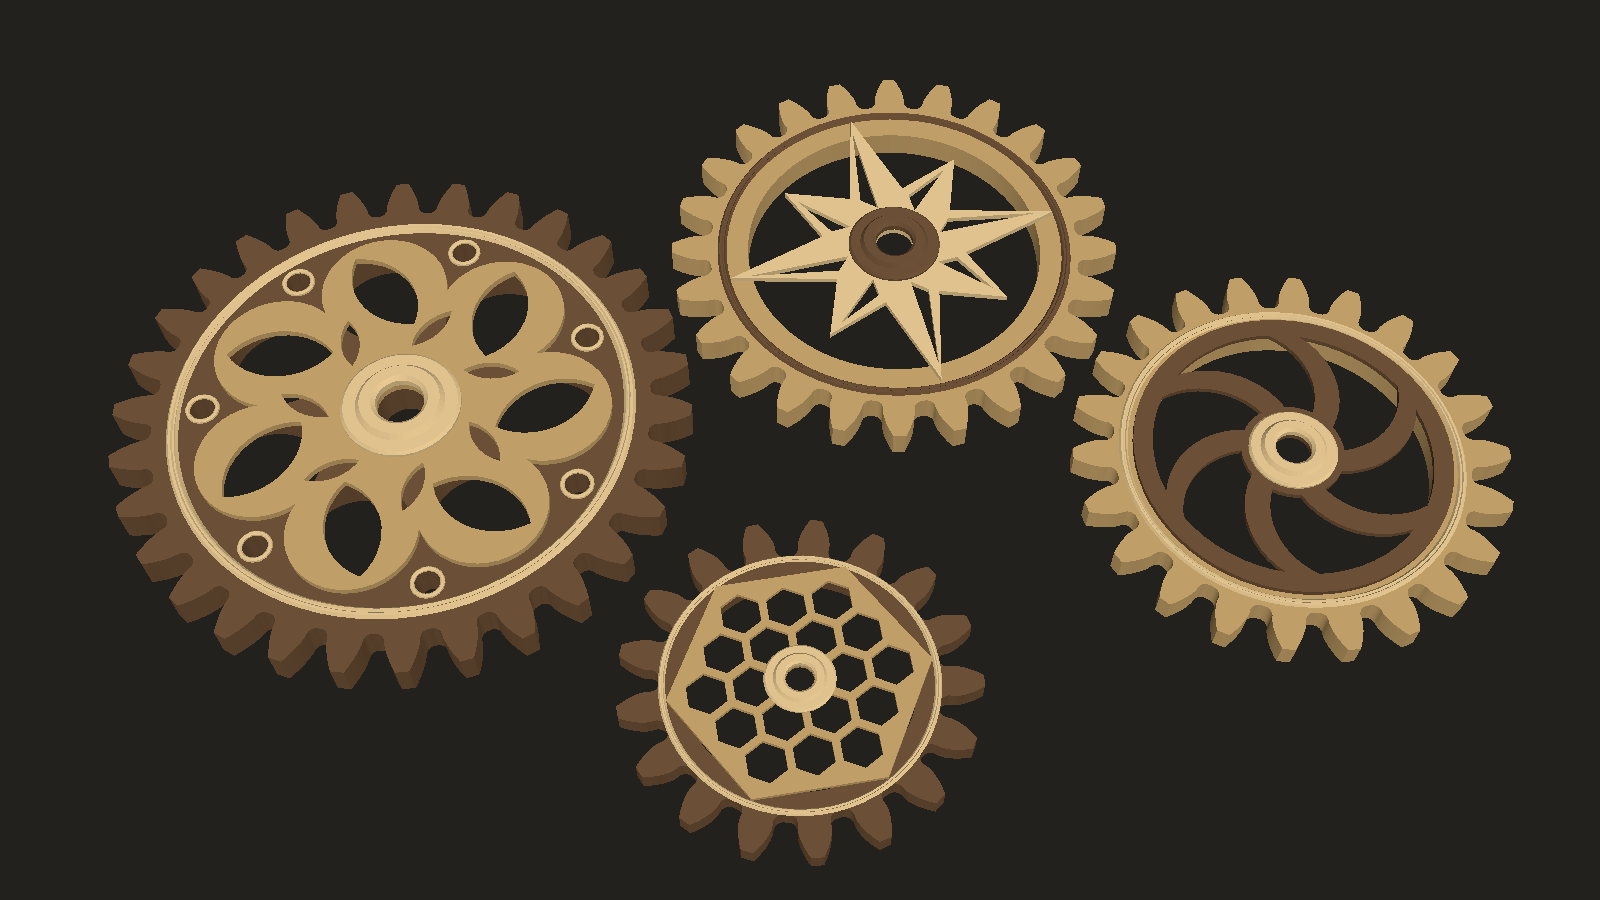
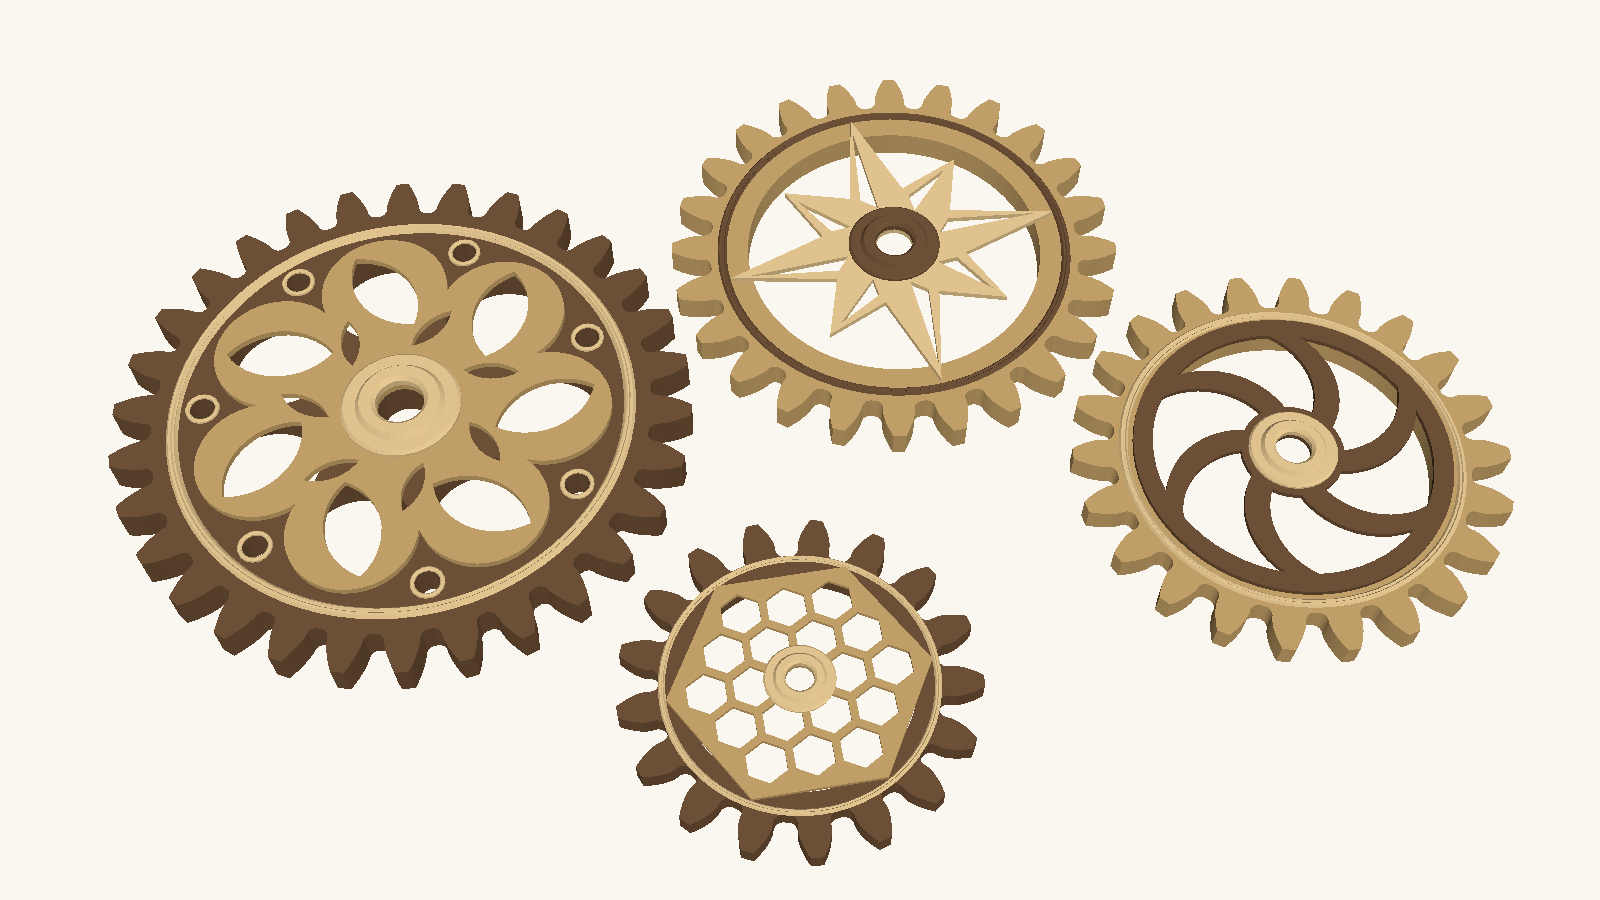
use ivory background for gallery hero

diff --git a/tools/render/ornamental_gears.go b/tools/render/ornamental_gears.go
@@ -44,7 +44,7 @@ func ornamentalGears(ctx context.Context) (solidlens.Scene, error) {
 	scene := solidlens.Scene{
 		Camera: solidlens.Camera{Position: r3.NewVec(7, -121, 186), Target: r3.NewVec(7, -9, 2),
 			Up: r3.NewVec(0, 0, 1), FOV: 26},
-		Background: solidlens.RGB(.016, .015, .013),
+		Background: solidlens.RGB(.95, .93, .87),
 		DirectionalLights: []solidlens.DirectionalLight{
 			{Direction: r3.NewVec(.15, .65, -.88), Color: solidlens.RGB(1, .92, .8), Intensity: .87},
 			{Direction: r3.NewVec(-.9, -.2, -.5), Color: solidlens.RGB(.83, .87, .92), Intensity: .51},
